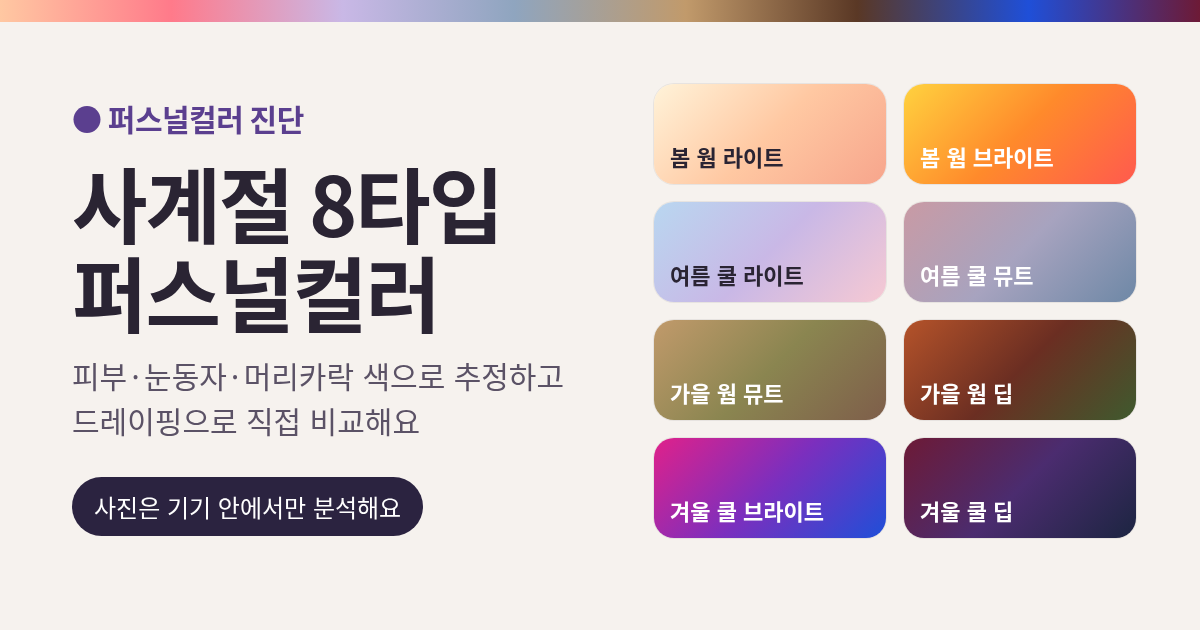
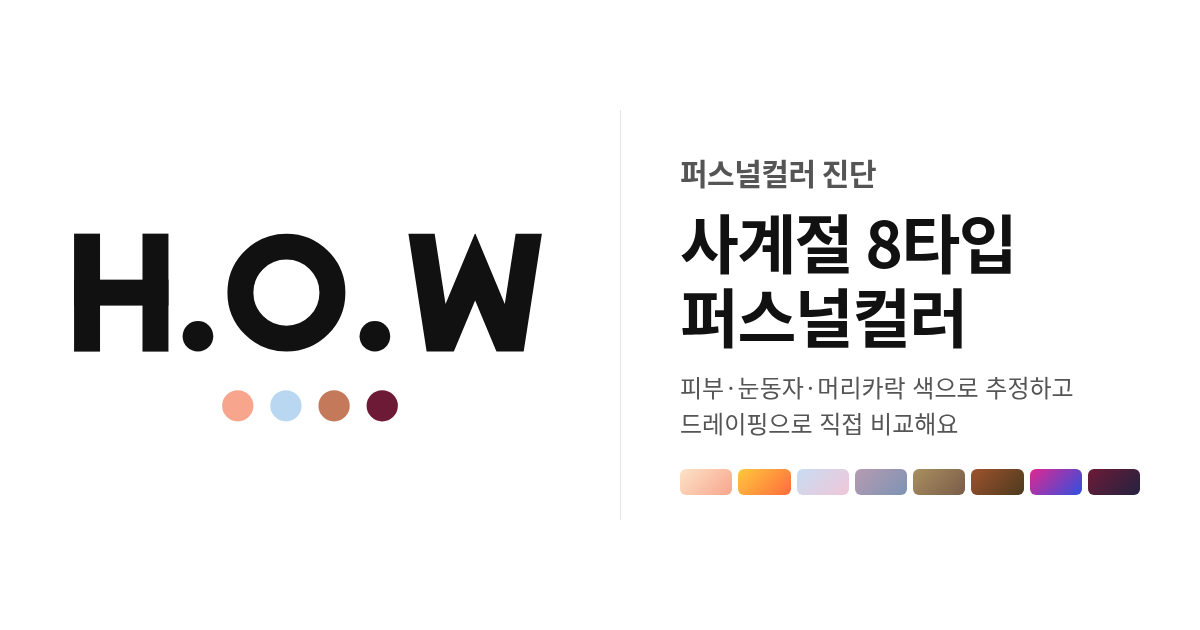
v1.6.3: 앱 아이콘·OG 이미지를 H.O.W 브랜드(흰 바탕·검정 글자·사계절 점)로 교체
- icon.svg, icon-192/512, maskable-512(80% 안전영역), apple-touch-icon(180, 불투명)
- og-image 1200x630 새로 제작
- manifest background_color #ffffff (theme_color는 상단 바와 같은 #2b2340 유지)
- SW 캐시 pc-v1.6.3

diff --git a/sw.js b/sw.js
@@ -1,6 +1,6 @@
 // 오프라인 캐시 (외부 요청 없음). 버전을 올리면 새 파일로 교체됨
 // 버전 정보는 여기 한 곳에만 둠 (첫 화면 아래 표시도 이 값을 읽음)
-const VERSION = 'pc-v1.6.2', BUILD_DATE = '2026-10-03';
+const VERSION = 'pc-v1.6.3', BUILD_DATE = '2026-10-03';
 const CORE = [
   './', 'index.html', 'app.css', 'manifest.webmanifest', 'icons/icon.svg',
   'js/app.js', 'js/color.js', 'js/analyzer.js', 'js/seasons.js', 'js/face.js', 'js/card.js', 'js/style.js', 'js/ticket.js', 'js/qr.js', 'js/admin.js', 'js/qrcard.js', 'js/share.js', 'vendor/qr/jsqr.mjs', 'vendor/qr/qrcode.mjs',
